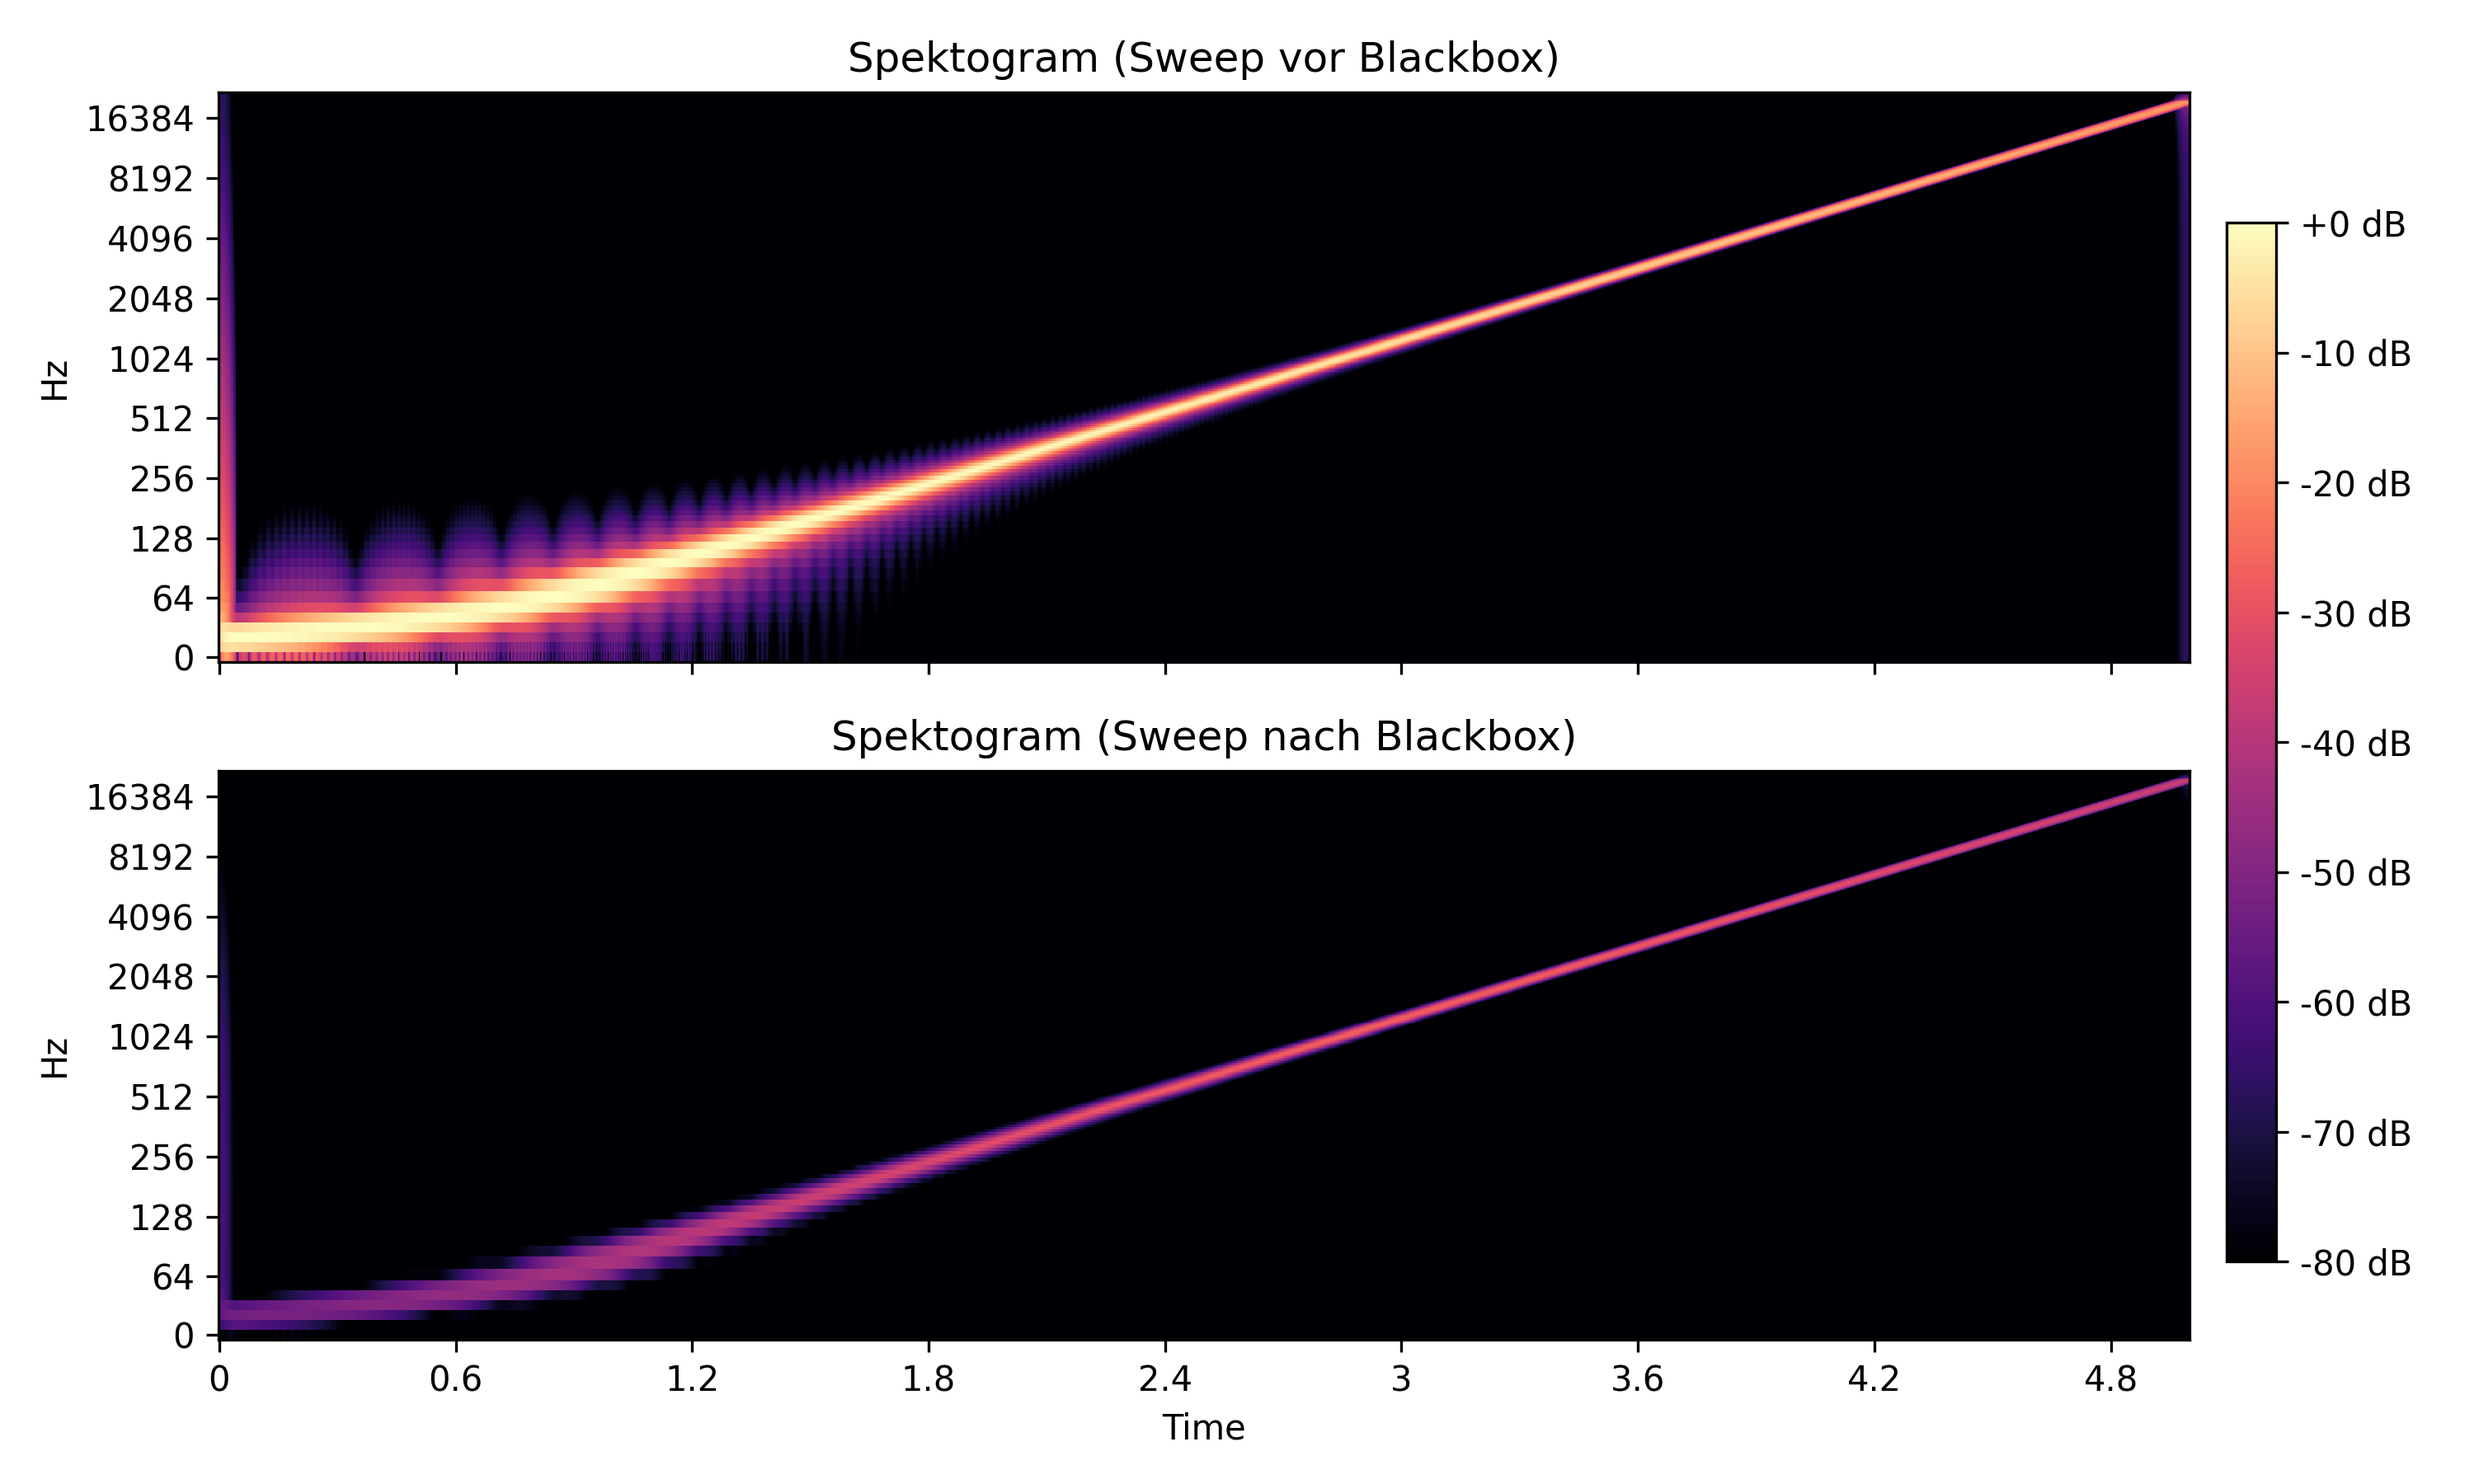
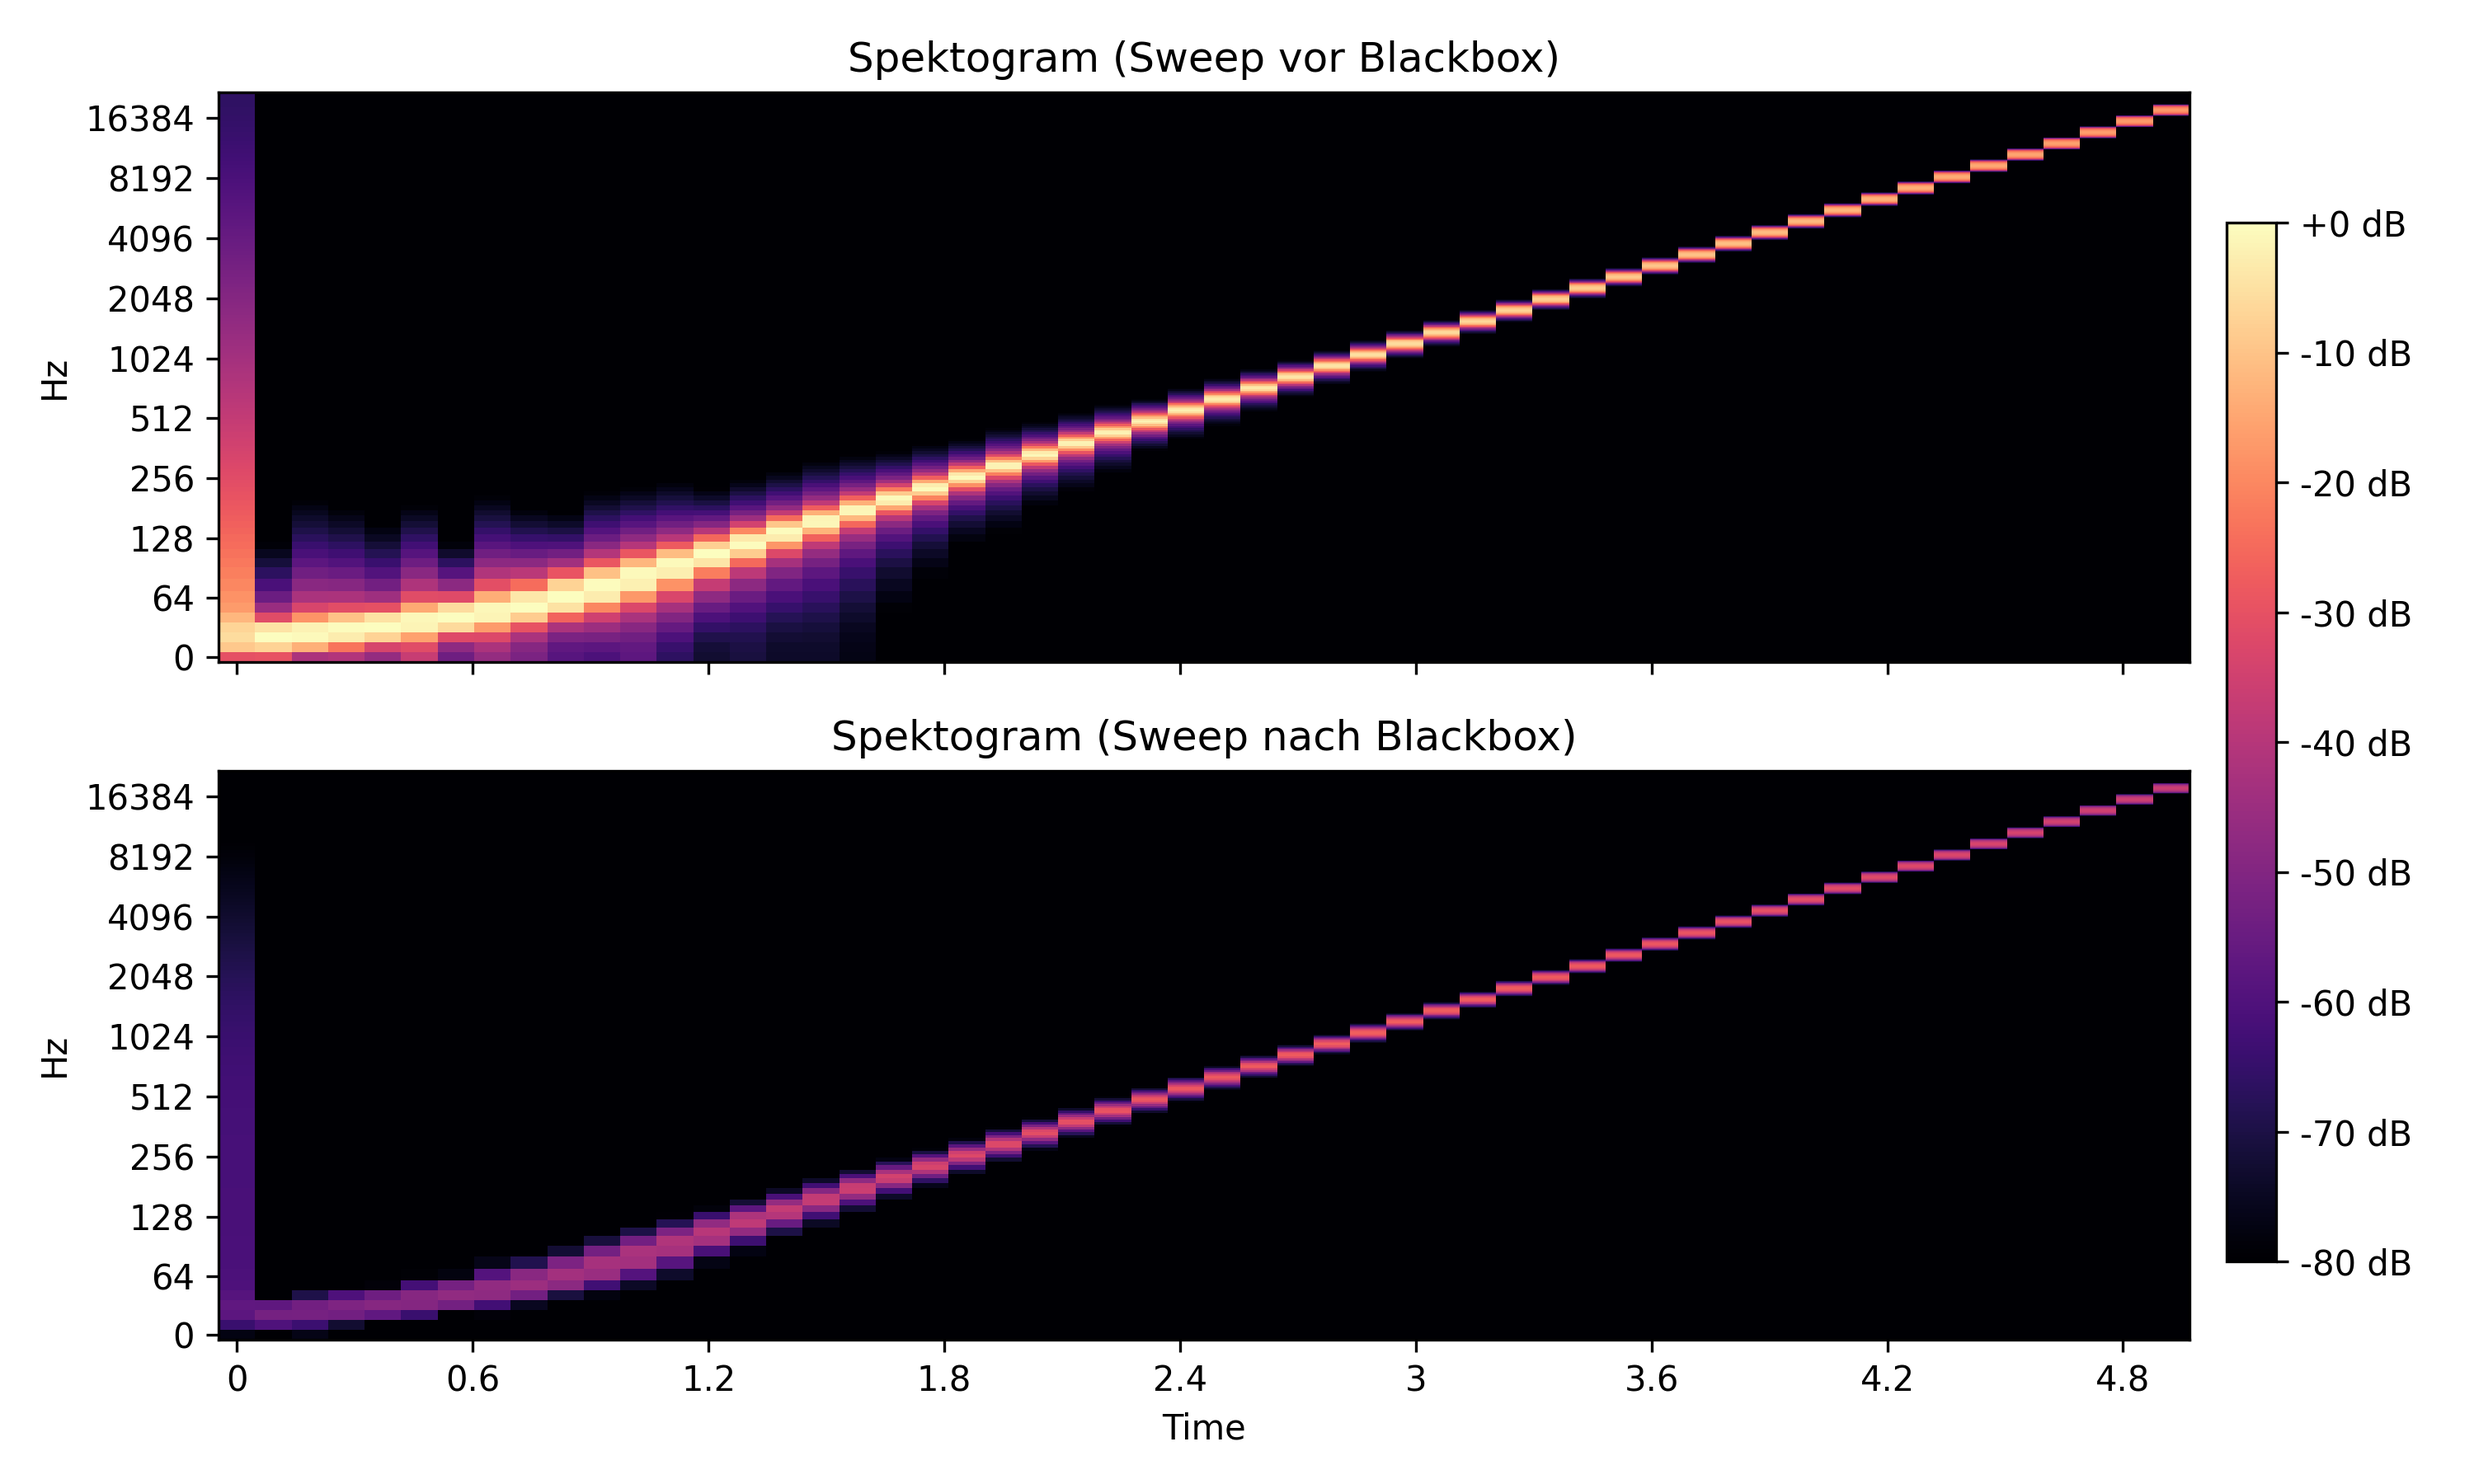
feat: aplituden-frequenzgang

diff --git a/blackbox_test.py b/blackbox_test.py
@@ -4,6 +4,7 @@ from scipy.signal import chirp
 from scipy.io.wavfile import read, write
 from pathlib import Path
 import librosa.display
+from matplotlib.ticker import FixedLocator, FuncFormatter
 
 from PP2_BlackBox3 import blackbox
 
@@ -32,7 +33,7 @@ print(f"Sweep-Files geschrieben: {output_dir / 'sweep_in.wav'}, {output_dir / 's
 
 # spectrums
 n_fft = 4096
-hop_length = 128 # abtastgröße freq.bereich
+hop_length = 4096  # abtastgröße freq.bereich
 
 S_in = np.abs(librosa.stft(sweep, n_fft=n_fft, hop_length=hop_length))
 S_out = np.abs(librosa.stft(y_sweep, n_fft=n_fft, hop_length=hop_length))
@@ -76,6 +77,32 @@ fig.tight_layout(rect=[0, 0, 0.9, 1])
 
 plt.savefig(output_dir / 'sweep_spektrogramm.png', dpi=300)
 plt.close(fig)
+
+# amplitude freq gang
+N = len(sweep)
+freqs = np.fft.rfftfreq(N, 1/fs)
+S = np.fft.rfft(sweep)
+Y = np.fft.rfft(y_sweep)
+resp_S = 20 * np.log10(np.abs(S) / np.max(np.abs(S)))
+resp_Y = 20 * np.log10(np.abs(Y) / np.max(np.abs(S)))
+
+plt.rcParams["font.size"] = 10
+fig2, ax2 = plt.subplots(figsize=(8, 4))
+ax2.plot(freqs, resp_S, color="#8b0000", lw=1.2, label='Input')
+ax2.plot(freqs, resp_Y, color="#8b0000", lw=1.2, label='Output')
+ax2.set_xscale("log")
+ax2.set_xlim(20, 20000)
+xt = [20, 50, 100, 200, 500, 1000, 2000, 5000, 10000, 20000]
+ax2.xaxis.set_major_locator(FixedLocator(xt))
+ax2.xaxis.set_major_formatter(FuncFormatter(lambda x, _: f"{int(x/1000)} k" if x >= 1000 else f"{int(x)}"))
+ax2.set_xlabel("Frequenz [Hz]")
+ax2.set_ylim(-60, 5)
+ax2.set_ylabel("Pegel [dB relativ zur Maximalaussteuerung]")
+ax2.grid(which="both", color="#666", alpha=0.3, ls="-")
+ax2.set_title("Amplituden-Frequenzgang", pad=10)
+fig2.tight_layout()
+plt.savefig(output_dir / 'amplitude_freq_response.png', dpi=300)
+plt.close(fig2)
 
 # wav
 wav_path = input_dir / 'input.wav'
